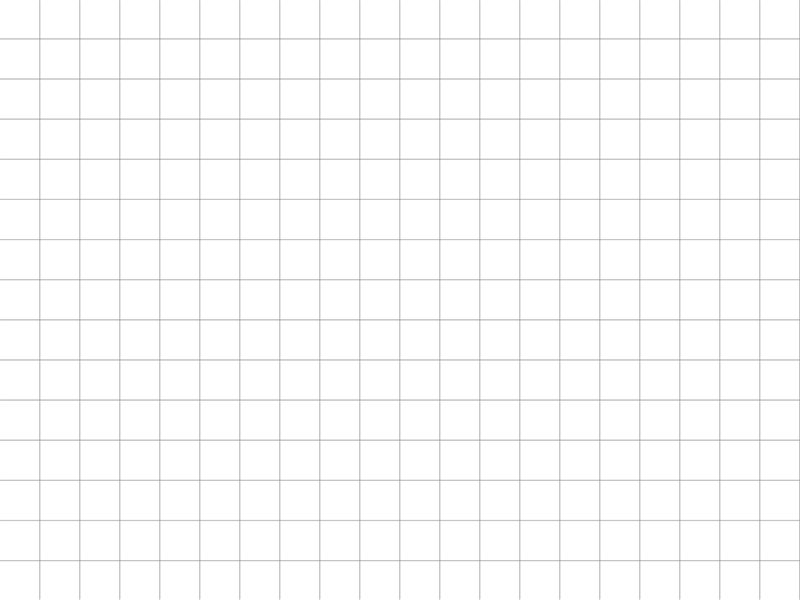
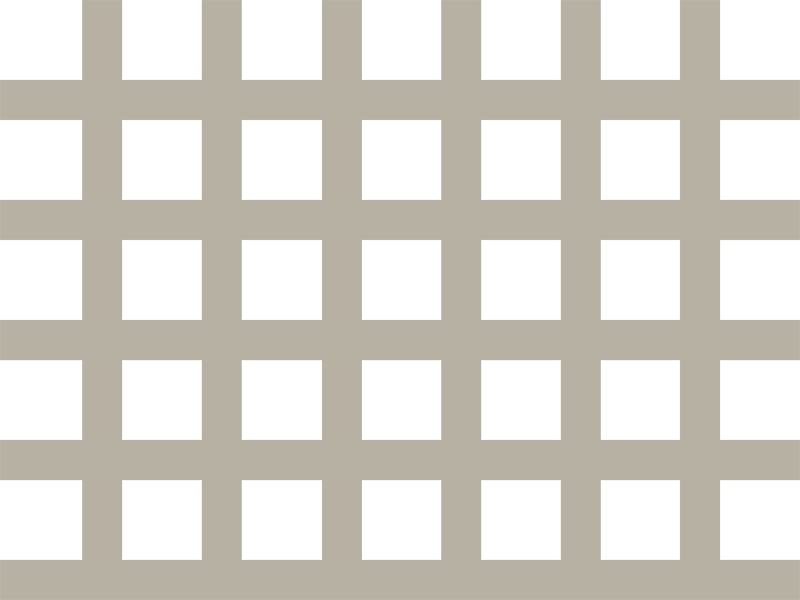
char movement

diff --git a/src/js/game/entities/Character.js b/src/js/game/entities/Character.js
@@ -48,7 +48,10 @@ var Character = function Character(game, map) {
      * @type {number}
      * @private
      */
-    this._moveSpeed = 20;
+    this._moveSpeed = 400;
+
+    this._isVerticallyMoving = false;
+    this._isHorizontallyMoving = false;
 
     this._map = map;
     this._mapSize = map.tileSize;
@@ -75,7 +78,6 @@ p.constructor = Character;
  * @private
  */
 p._initialize = function () {
-
     this._findStart();
 };
 
@@ -121,22 +123,52 @@ p._checkField = function () {
 
     // UP Movement
     if (this._upKey.isDown && this.isOnTile || this._upKey.isDown && this._dir.y > 0) {
+
+        if(this._dir.x !== 0) {
+            return;
+        }
+
         nextY = this._curTile.y - 1;
-        if (nextY >= 0 || this._map[nextY][this._curTile.x] !== 1) {
+
+        // Reverses direction
+        if(this._dir.y > 0 ) {
+            nextY = this._curTile.y;
+        }
+
+        nextY = nextY < 0 ? 0 : nextY;
+
+        if(this._map.tiles[nextY][this._curTile.x] === 1) {
+            return;
+        }
+
+        if (nextY > 0 || this._map.tiles[nextY][this._curTile.x] !== 1) {
             this._nextTile.y = nextY;
             this._dir.y = -1;
             this.isOnTile = false;
             this._currentState = this._state.WALK;
+            this._isVerticallyMoving = false;
+
         }
     }
 
     // DOWN Movement
-    if (this._downKey.isDown && this.isOnTile || this._downKey.isDown && this._dir.y < 0) {
+    if (this._downKey.isDown && this.isOnTile || this._downKey.isDown && this._dir.y < 0 ) {
+
+        if(this._dir.x !== 0) {
+            return;
+        }
+
         nextY = this._curTile.y + 1;
 
-        // if we are moving up the next tile will actually be the current
+        // Reverse direction
         if(this._dir.y < 0) {
-          nextY = this._curTile.y;
+            nextY = this._curTile.y;
+        }
+
+        nextY = nextY > this._map.height -1 ? this._map.height -1 : nextY;
+
+        if(this._map.tiles[nextY][this._curTile.x] === 1) {
+            return;
         }
 
         if (nextY < this._map.height * this._mapSize || this._map[nextY][this._curTile.x] !== 1) {
@@ -144,11 +176,17 @@ p._checkField = function () {
             this._dir.y = 1;
             this.isOnTile = false;
             this._currentState = this._state.WALK;
+            this._isVerticallyMoving = false;
         }
     }
 
     // LEFT Movement
     if (this._leftKey.isDown && this.isOnTile || this._leftKey.isDown && this._dir.x > 0) {
+
+        if(this._dir.y !== 0) {
+            return;
+        }
+
         nextX = this._curTile.x - 1;
 
         // if we are right next
@@ -156,16 +194,28 @@ p._checkField = function () {
             nextX = this._curTile.x;
         }
 
-        if (nextX >= 0  || this._map[nextX][this._curTile.y] !== 1) {
+        nextX = nextX < 0 ? 0 : nextX;
+
+        if(this._map.tiles[this._curTile.y][nextX] === 1) {
+            return;
+        }
+
+        if (nextX >= 0 || this._map[nextX][this._curTile.y] !== 1) {
             this._nextTile.x = nextX;
             this._dir.x = -1;
             this.isOnTile = false;
             this._currentState = this._state.WALK;
+            this._isHorizontallyMoving = false;
         }
     }
 
     // RIGHT Movement
     if (this._rightKey.isDown && this.isOnTile || this._rightKey.isDown && this._dir.x < 0) {
+
+        if(this._dir.y !== 0) {
+            return;
+        }
+
         nextX = this._curTile.x + 1;
 
         // if we are right next
@@ -173,11 +223,18 @@ p._checkField = function () {
             nextX = this._curTile.x;
         }
 
+        nextX = nextX > this._map.width-1 ? this._map.width-1 : nextX;
+
+        if(this._map.tiles[this._curTile.y][nextX] === 1) {
+            return;
+        }
+
         if (nextX < this._map.width * this._mapSize || this._map[nextX][this._curTile.y] !== 1) {
             this._nextTile.x = nextX;
             this._dir.x = 1;
             this.isOnTile = false;
             this._currentState = this._state.WALK;
+            this._isHorizontallyMoving = false;
         }
     }
 
@@ -207,33 +264,44 @@ p.loop = function (delta) {
 
             // up movement
             if (this._dir.y < 0) {
-
                 if (this.y <= this._nextTile.y * this._mapSize) {
                     this.y = this._nextTile.y * this._mapSize;
                     this._curTile.y = this._nextTile.y;
                     this.isOnTile = true;
+                    this._dir.y = 0;
                 }
             }
 
             // down movement
             if (this._dir.y > 0) {
-
                 if (this.y >= this._nextTile.y * this._mapSize) {
                     this.y = this._nextTile.y * this._mapSize;
                     this._curTile.y = this._nextTile.y;
                     this.isOnTile = true;
+                    this._dir.y = 0;
                 }
             }
 
             // left movement
             if (this._dir.x < 0) {
-
                 if (this.x <= this._nextTile.x * this._mapSize) {
                     this.x = this._nextTile.x * this._mapSize;
                     this._curTile.x = this._nextTile.x;
                     this.isOnTile = true;
+                    this._dir.x = 0;
                 }
             }
+
+            // left movement
+            if (this._dir.x > 0) {
+                if (this.x >= this._nextTile.x * this._mapSize) {
+                    this.x = this._nextTile.x * this._mapSize;
+                    this._curTile.x = this._nextTile.x;
+                    this.isOnTile = true;
+                    this._dir.x = 0;
+                }
+            }
+
 
             break;
         case this._state.DEAD:

diff --git a/src/js/game/levels.js b/src/js/game/levels.js
@@ -9,35 +9,35 @@
 var levels = {
 
     levelA: { tiles: [
-        [0, 0, 0, 0, 0, 0, 0, 0, 0, 0, 0, 0, 0, 0, 0, 0, 0, 0, 0, 0]
+        [1, 1, 0, 1, 1, 0, 1, 1, 0, 1, 1, 0, 1, 1, 0, 1, 1, 0, 1, 1]
+        ,
+        [1, 1, 0, 1, 1, 0, 1, 1, 0, 1, 1, 0, 1, 1, 0, 1, 1, 0, 1, 1]
         ,
         [0, 0, 0, 0, 0, 0, 0, 0, 0, 0, 0, 0, 0, 0, 0, 0, 0, 0, 0, 0]
         ,
-        [0, 0, 0, 0, 0, 0, 0, 0, 0, 0, 0, 0, 0, 0, 0, 0, 0, 0, 0, 0]
+        [1, 1, 0, 1, 1, 0, 1, 1, 0, 1, 1, 0, 1, 1, 0, 1, 1, 0, 1, 1]
+        ,
+        [1, 1, 0, 1, 1, 0, 1, 1, 0, 1, 1, 0, 1, 1, 0, 1, 1, 0, 1, 1]
         ,
         [0, 0, 0, 0, 0, 0, 0, 0, 0, 0, 0, 0, 0, 0, 0, 0, 0, 0, 0, 0]
         ,
-        [0, 0, 0, 0, 0, 0, 0, 0, 0, 0, 0, 0, 0, 0, 0, 0, 0, 0, 0, 0]
+        [1, 1, 0, 1, 1, 0, 1, 1, 0, 1, 1, 0, 1, 1, 0, 1, 1, 0, 1, 1]
+        ,
+        [1, 1, 0, 1, 1, 0, 1, 1, 0, 1, 1, 0, 1, 1, 0, 1, 1, 0, 1, 1]
         ,
         [0, 0, 0, 0, 0, 0, 0, 0, 0, 0, 0, 0, 0, 0, 0, 0, 0, 0, 0, 0]
         ,
-        [0, 0, 0, 0, 0, 0, 0, 0, 0, 0, 0, 0, 0, 0, 0, 0, 0, 0, 0, 0]
+        [1, 1, 0, 1, 1, 0, 1, 1, 0, 1, 1, 0, 1, 1, 0, 1, 1, 0, 1, 1]
         ,
-        [0, 0, 0, 0, 0, 0, 0, 0, 0, 0, 9, 0, 0, 0, 0, 0, 0, 0, 0, 0]
-        ,
-        [0, 0, 0, 0, 0, 0, 0, 0, 0, 0, 0, 0, 0, 0, 0, 0, 0, 0, 0, 0]
+        [1, 1, 0, 1, 1, 0, 1, 1, 0, 1, 1, 0, 1, 1, 0, 1, 1, 0, 1, 1]
         ,
         [0, 0, 0, 0, 0, 0, 0, 0, 0, 0, 0, 0, 0, 0, 0, 0, 0, 0, 0, 0]
         ,
-        [0, 0, 0, 0, 0, 0, 0, 0, 0, 0, 0, 0, 0, 0, 0, 0, 0, 0, 0, 0]
+        [1, 1, 0, 1, 1, 0, 1, 1, 0, 1, 1, 0, 1, 1, 0, 1, 1, 0, 1, 1]
         ,
-        [0, 0, 0, 0, 0, 0, 0, 0, 0, 0, 0, 0, 0, 0, 0, 0, 0, 0, 0, 0]
+        [1, 1, 0, 1, 1, 0, 1, 1, 0, 1, 1, 0, 1, 1, 0, 1, 1, 0, 1, 1]
         ,
-        [0, 0, 0, 0, 0, 0, 0, 0, 0, 0, 0, 0, 0, 0, 0, 0, 0, 0, 0, 0]
-        ,
-        [0, 0, 0, 0, 0, 0, 0, 0, 0, 0, 0, 0, 0, 0, 0, 0, 0, 0, 0, 0]
-        ,
-        [0, 0, 0, 0, 0, 0, 0, 0, 0, 0, 0, 0, 0, 0, 0, 0, 0, 0, 0, 0]
+        [9, 0, 0, 0, 0, 0, 0, 0, 0, 0, 0, 0, 0, 0, 0, 0, 0, 0, 0, 0]
     ],
         tileSize: 40,
         height: 15,
